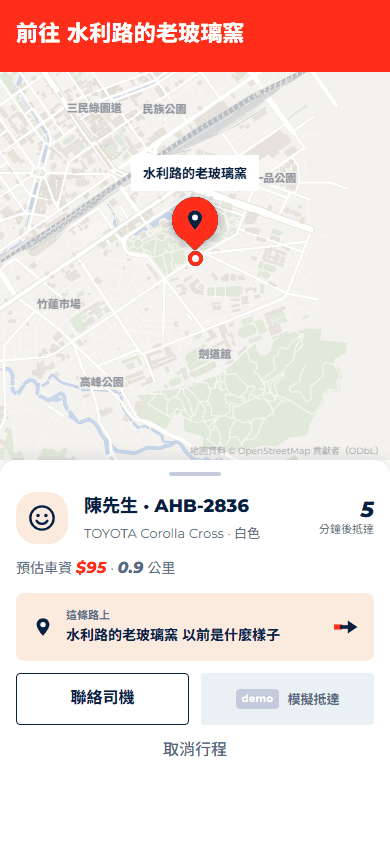
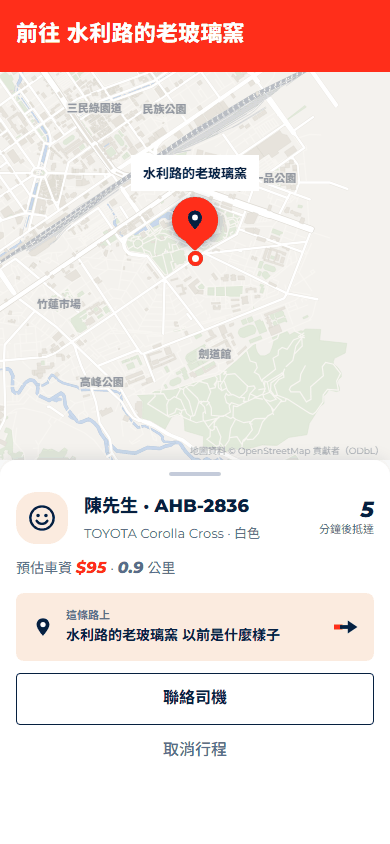
fix: 移除乘客介面的 demo 控制並重拍行程截圖

diff --git a/app/tests/specs/flows.spec.js b/app/tests/specs/flows.spec.js
@@ -25,7 +25,7 @@ T.spec('flows', function (t) {
   /* 叫車首頁「叫車前往」→ 確認叫車頁「確認叫車」 */
   const callRide = T.helpers.callRide;
 
-  /* 流程 A 的前半：探索 → 今天的地方 → 下車點 → 叫車 → 模擬抵達 → 評分 → 解鎖 → 收下。
+  /* 流程 A 的前半：探索 → 今天的地方 → 下車點 → 叫車 → 外部推進行程 → 評分 → 解鎖 → 收下。
      C 會先走一次；still 與非 still 都能跑（非 still 時解鎖點一下畫面跳到成品）。 */
   async function rideAndCollect(app, note) {
     const A = app.APP;
@@ -41,7 +41,8 @@ T.spec('flows', function (t) {
     await callRide(app);
     await app.at('/trip');
     t.eq(A.ride.trip.current().placeId, T0.id, '建立這個目的地的 yoxi 行程');
-    await app.click('main.view [data-act="arrive"]');
+    t.ok(!app.$('main.view [data-act="arrive"]'), '乘客 app 不提供抵達開發控制');
+    await app.click('#demo-panel [data-act="advance-trip"]');
     await app.at('/trip/done');
     await app.click('[data-act="rate"][data-star="5"]');
     await app.click('.banner--gold');
@@ -140,7 +141,7 @@ T.spec('flows', function (t) {
     t.ok(story && !story.hidden, '「這條路上」展開');
     t.ok(story && story.querySelectorAll('.story__text').length > 0 && app.text('[data-story]').length > 20, '「這條路上」有內容');
 
-    await app.click('main.view [data-act="arrive"]');
+    await app.click('#demo-panel [data-act="advance-trip"]');
     await app.at('/trip/done');
     t.eq(A.store.get('trip').phase, 'done', 'trip.phase=done');
     t.ok(app.$('[data-gold]').hidden, '評分前沒有金色橫幅');
@@ -237,7 +238,7 @@ T.spec('flows', function (t) {
     await app.go('/ride');
     await callRide(app);
     await app.at('/trip');
-    await app.click('main.view [data-act="arrive"]');
+    await app.click('#demo-panel [data-act="advance-trip"]');
     await app.at('/trip/done');
     await app.click('[data-act="rate"][data-star="4"]');
     await app.click('[data-act="go-home"]');
@@ -538,14 +539,17 @@ T.spec('flows', function (t) {
     await app.at('/explore');
     t.ok(true, '從別頁呼叫是 push，返回回到原頁');
 
-    /* 設定頁的模擬抵達（手機的 demo 工具）：有行程 → 行程完成 */
+    /* 乘客設定頁不含開發控制；手機外的工具推進既有行程 → 結算評分。 */
     await app.reset({ store: { trip: T.fixtures.trip({ placeId: 'lake', startedAt: now(), km: 6.4 }) } });
     A = app.APP;
     await app.go('/settings');
     await app.click('[data-act="more"]');
-    await app.click('main.view [data-act="arrive"]');
+    t.ok(!app.$('main.view [data-act="arrive"], main.view [data-act="advance-trip"], main.view [data-act="reset-demo"], main.view [data-act="push-am"], main.view [data-act="push-pm"]'), '設定頁展開後沒有開發控制');
+    t.ok(!/demo|模擬抵達|模擬到家/i.test(app.text('main.view')), '設定頁沒有 demo 或模擬說明');
+    t.ok(!app.$('#demo-panel [data-act="advance-trip"]').disabled, '有 active trip，外面的開發工具可推進');
+    await app.click('#demo-panel [data-act="advance-trip"]');
     await app.at('/trip/done');
-    t.eq(A.store.get('trip').phase, 'done', '設定頁模擬抵達 → phase=done');
+    t.eq(A.store.get('trip').phase, 'done', '外部推進既有行程 → phase=done');
     t.eq(app.errors.length, 0, '錯誤：' + app.errors.join('；'));
   });
 
@@ -597,6 +601,8 @@ T.spec('flows', function (t) {
       if (!v) { probs.push(path + '：沒有 main.view'); continue; }
       t.noDeadButtons(app, label + path);
       t.noBannedWords(app, { msg: label + path });
+      t.ok(!app.$('main.view [data-act="arrive"], main.view [data-act="advance-trip"]'), label + path + ' 乘客畫面沒有抵達開發控制');
+      t.ok(!/模擬抵達|模擬到家|demo 工具|叫車、抵達與推播都是模擬的/i.test(v.innerText), label + path + ' 乘客可見文案沒有 demo 說明');
       t.ok(!app.$('[data-act="go-walk"], [data-act="arrive-walk"]'), label + path + ' 沒有步行前往或抵達控制');
       const retiredTravel = /走路前往|步行|走路約|再走過去|走路抵達|不是拿來滑的/;
       t.ok(!retiredTravel.test(v.innerText), label + path + ' 可見文案沒有舊步行產品語意：' + (v.innerText.match(retiredTravel) || []).join(''));
@@ -697,7 +703,7 @@ T.spec('flows', function (t) {
       await app.at('/trip');
       await app.waitFor(function () { return !app.$('[data-phase="riding"]').hidden; }, 3000, '行程中');
       seen.trip = app.text('[data-phase="riding"] [data-fare]');
-      await app.click('main.view [data-act="arrive"]');
+      await app.click('#demo-panel [data-act="advance-trip"]');
       await app.at('/trip/done');
       seen.done = app.text('.ride-done__sum [data-fare]');
       Object.keys(seen).forEach(function (k) { t.eq(seen[k], want, id + ' ' + k + ' 車資'); });

diff --git a/app/js/views/system.js b/app/js/views/system.js
@@ -162,7 +162,7 @@ function push(opt) {
         '<span class="pushmock__b">' + esc(body) + '</span>' +
       '</span>' +
     '</a>' +
-    '<p class="sys-push__note">demo：一天最多兩則，早上一則、晚上一則</p>' +
+    '<p class="sys-push__note">一天最多兩則，早上一則、晚上一則</p>' +
     '<button class="pushmock__close sys-push__close" type="button" data-act="close-push">關閉</button>';
 
   el.querySelector('[data-act="open-push"]').onclick = function (e) {
@@ -474,21 +474,15 @@ APP.view('settings', {
 
         '<section class="sys-set__sec sys-set__sec--last">' +
           '<button class="sys-set__more" type="button" data-act="more" aria-expanded="false">' +
-            '<span>清除足跡、demo 工具與關於</span><span class="sys-set__chev" aria-hidden="true"></span></button>' +
+            '<span>清除足跡與關於</span><span class="sys-set__chev" aria-hidden="true"></span></button>' +
           '<div class="sys-set__morebox" data-more hidden>' +
             /* 可按數 ≤ 10：多了「探索模式的景點」開關，清除足跡收進展開區（它本來就不是常用的動作） */
             '<div class="sys-set__sec">' +
               '<button class="btn-ghost sys-set__wipe" type="button" data-act="wipe">清除我的足跡</button>' +
             '</div>' +
-            '<div class="sec"><h2 class="sec__t sec__t--sm">demo 工具</h2><span class="sec__m">提案現場用</span></div>' +
-            '<div class="sys-set__demo">' +
-              '<button class="btn-ghost" type="button" data-act="push-am">早上推播</button>' +
-              '<button class="btn-ghost" type="button" data-act="push-pm">晚上推播</button>' +
-              '<button class="btn-ghost" type="button" data-act="arrive">模擬抵達</button>' +
+            '<div class="sys-set__actions">' +
               '<button class="btn-ghost" type="button" data-act="welcome">再看一次介紹</button>' +
-              '<button class="btn-ghost sys-set__danger" type="button" data-act="reset-demo">重設 demo</button>' +
             '</div>' +
-            '<p class="sys-set__small">叫車、抵達與推播都是模擬的。</p>' +
 
             '<div class="sec sys-set__abouthd"><h2 class="sec__t sec__t--sm">關於</h2></div>' +
             '<div class="card card--pad sys-set__about">' +
@@ -537,18 +531,7 @@ APP.view('settings', {
       }
     };
 
-    root.querySelector('[data-act="push-am"]').onclick = function () { APP.ui.push({ when: 'am' }); };
-    root.querySelector('[data-act="push-pm"]').onclick = function () { APP.ui.push({ when: 'pm' }); };
     root.querySelector('[data-act="welcome"]').onclick = function () { APP.nav.go('/welcome'); };
-    root.querySelector('[data-act="reset-demo"]').onclick = function () { resetDemo(); };
-
-    const arrive = root.querySelector('[data-act="arrive"]');
-    const can = arriveTarget();
-    arrive.classList.toggle('is-off', !can);
-    arrive.onclick = function () {
-      const go = arriveTarget();
-      if (go) go(); else APP.ui.toast('先開始前往或叫車');
-    };
 
     /* 別處改了設定（例如 demo 面板的重設）時同步開關 */
     return APP.on('state:change', function () { syncSwitches(root); });
@@ -622,6 +605,7 @@ function fillPanel() {
     '<div class="demo-panel__t">demo 工具</div>' +
     '<button class="demo-panel__btn" type="button" data-act="push-am">早上推播</button>' +
     '<button class="demo-panel__btn" type="button" data-act="push-pm">晚上推播</button>' +
+    '<button class="demo-panel__btn" type="button" data-act="advance-trip" disabled>推進目前行程</button>' +
     '<div class="demo-panel__group" role="group" aria-labelledby="demo-arrive-t">' +
       '<label class="demo-panel__label" id="demo-arrive-t" for="demo-arrive-place">模擬抵達</label>' +
       '<select class="demo-panel__select" id="demo-arrive-place" data-demo-place></select>' +
@@ -642,6 +626,9 @@ function fillPanel() {
   sel.onchange = function () { panelPick = sel.value; };
   panel.querySelector('[data-act="push-am"]').onclick = function () { APP.ui.push({ when: 'am' }); };
   panel.querySelector('[data-act="push-pm"]').onclick = function () { APP.ui.push({ when: 'pm' }); };
+  panel.querySelector('[data-act="advance-trip"]').onclick = function () {
+    if (APP.ride.trip.active()) APP.ride.arrive();
+  };
   panel.querySelector('[data-act="reset-demo"]').onclick = function () { resetDemo(); };
   panel.querySelector('[data-act="arrive-ride"]').onclick = function () { demoArrive(sel.value, 'ride'); };
   const date = panel.querySelector('[data-demo-date]');
@@ -656,6 +643,7 @@ function fillPanel() {
 function updatePanel(cur) {
   const panel = fillPanel();
   if (!panel) return;
+  panel.querySelector('[data-act="advance-trip"]').disabled = !APP.ride.trip.active();
   const sel = panel.querySelector('[data-demo-place]');
   let list = demoPlaces();
   const here = contextPlace(cur);

diff --git a/app/tests/specs/ride.spec.js b/app/tests/specs/ride.spec.js
@@ -39,7 +39,13 @@ T.spec('ride', function (t) {
     await app.go('/trip');
     await app.tick(60);
     checkPage(app, '/trip riding');
-    t.ok(app.$('[data-act="arrive"]'), '有模擬抵達');
+    t.ok(!app.$('main.view [data-act="arrive"], main.view [data-act="advance-trip"]'), '乘客行程沒有抵達開發控制');
+    t.ok(!/demo|模擬抵達|模擬到家/i.test(app.text('main.view')), '乘客行程文案沒有 demo 或模擬抵達');
+    const contact = app.$('[data-phase="riding"] [data-act="call-driver"]');
+    t.ok(contact && typeof contact.onclick === 'function', '行程中仍可聯絡司機');
+    await app.click(contact);
+    t.includes(app.text('.toast'), '正在撥號給', '聯絡司機能觸發撥號回饋');
+    t.ok(!app.$('#demo-panel [data-act="advance-trip"]').disabled, '開發工具可推進進行中的行程');
     await app.reset({ store: { trip: neiwanTrip('done', { rated: true, stars: 5 }) } });
     await app.go('/trip/done');
     await app.tick(60);
@@ -1125,7 +1131,7 @@ T.spec('ride', function (t) {
     await callRide(app);
     await app.at('/trip');
     t.eq(A.store.get('trip').via, 'k1', 'trip.via＝dropoff.via');
-    await app.click('main.view [data-act="arrive"]');
+    await app.click('#demo-panel [data-act="advance-trip"]');
     await app.at('/trip/done');
     await app.click('[data-act="rate"][data-star="5"]');
     await app.click('.banner--gold');
@@ -1175,7 +1181,7 @@ T.spec('ride', function (t) {
     await app.at('/trip');
     t.eq('round' in A.store.get('trip'), false, '單程的行程沒有 round');
     t.ok(!app.$('[data-round-note]') && !app.$('[data-round-fare]'), '去程沒有來回的車資與說明');
-    await app.click('main.view [data-act="arrive"]');
+    await app.click('#demo-panel [data-act="advance-trip"]');
     await app.at('/trip/done');
     t.eq(A.store.get('trip').phase, 'done', '單程抵達就是 done');
     t.ok(!app.$('[data-legs]'), '結算頁沒有三段');
@@ -1194,7 +1200,7 @@ T.spec('ride', function (t) {
     t.eq(money(app, '[data-phase="riding"] [data-min]'), F.rideMin(km), '去程分鐘＝rideMin');
     t.eq(money(app, '[data-round-note] [data-wait-max]'), R.WAIT_MAX_MIN, '去程就先說司機會等多久');
 
-    await app.click('main.view [data-act="arrive"]');
+    await app.click('#demo-panel [data-act="advance-trip"]');
     await app.waitFor(function () { return app.$('[data-phase="waiting"]'); }, 3000, '候車那一段');
     t.eq(app.route().path, '/trip', '去程到了還在 /trip');
     t.eq(A.store.get('trip').phase, 'waiting', 'phase=waiting');
@@ -1217,10 +1223,16 @@ T.spec('ride', function (t) {
     t.eq(A.store.get('trip').phase, 'returning', 'phase=returning');
     t.includes(app.doc.title, '回家的路上', '標題');
     checkPage(app, '/trip 回程');
+    t.ok(!app.$('main.view [data-act="arrive"], main.view [data-act="advance-trip"]'), '回程沒有抵達或到家開發控制');
+    t.ok(!/demo|模擬抵達|模擬到家/i.test(app.text('main.view')), '回程文案沒有 demo 或模擬到家');
+    const returningContact = app.$('[data-phase="returning"] [data-act="call-driver"]');
+    t.ok(returningContact && typeof returningContact.onclick === 'function', '回程仍可聯絡司機');
+    await app.click(returningContact);
+    t.includes(app.text('.toast'), '正在撥號給', '回程聯絡司機可用');
     t.eq(money(app, '[data-phase="returning"] [data-min]'), F.rideMin(km), '回程分鐘＝rideMin（一樣遠）');
     t.ok(app.$('[data-back-pending]'), '還沒收：說到家之後也收得到');
 
-    await app.click('main.view [data-act="arrive"]');
+    await app.click('#demo-panel [data-act="advance-trip"]');
     await app.at('/trip/done');
     t.eq(A.store.get('trip').phase, 'done', '到家');
     checkPage(app, '/trip/done 來回');
@@ -1282,7 +1294,7 @@ T.spec('ride', function (t) {
     await app.click('[data-act="ride-back"]');
     await app.waitFor(function () { return app.$('[data-phase="returning"]'); }, 3000, '回程');
     t.ok(!app.$('[data-back-pending]'), '收過了：回程不再提醒');
-    await app.click('main.view [data-act="arrive"]');
+    await app.click('#demo-panel [data-act="advance-trip"]');
     await app.at('/trip/done');
     await app.click('[data-act="rate"][data-star="4"]');
     const g = app.$('[data-gold] .banner--gold');

diff --git a/app/tests/specs/system.spec.js b/app/tests/specs/system.spec.js
@@ -69,9 +69,11 @@ T.spec('system', function (t) {
     t.noBannedWords(app);
     const n = t.countTappables(app);
     t.ok(n <= 10, '可按數 ' + n);
-    /* 展開 demo 工具與關於：內容都在、仍然沒有死按鈕與禁用詞 */
+    /* 展開清除足跡與關於：乘客設定頁沒有開發工具，仍然沒有死按鈕與禁用詞。 */
     await app.click('[data-act="more"]');
     t.ok(!app.$('[data-more]').hidden, '展開');
+    t.ok(!app.$('main.view [data-act="arrive"], main.view [data-act="advance-trip"], main.view [data-act="push-am"], main.view [data-act="push-pm"], main.view [data-act="reset-demo"]'), '展開後仍沒有抵達、推播、重設等開發控制');
+    t.ok(!/demo|模擬抵達|模擬到家|叫車、抵達與推播都是模擬的/i.test(app.text('main.view')), '設定文案沒有 demo 與模擬說明');
     t.eq(app.text('[data-version]'), app.APP.system.VERSION, '版本字串');
     t.ok(app.text('main.view').indexOf('OpenStreetMap') >= 0, '地圖署名');
     const P = app.win.PHOTOS_DATA || {};
@@ -198,7 +200,7 @@ T.spec('system', function (t) {
     t.eq(app.STATE.count(), 9, '先收一張');
     await app.go('/settings');
     await app.click('[data-act="more"]');
-    await app.click('main.view [data-act="reset-demo"]');
+    await app.click('#demo-panel [data-act="reset-demo"]');
     await app.click('[data-act="confirm-yes"]');
     await app.at('/ride');
     t.eq(app.STATE.count(), 8, 'STATE 回到 fresh 8 張');
@@ -212,7 +214,7 @@ T.spec('system', function (t) {
     app.STATE.collect('glass-kiln', {});
     await app.go('/settings');
     await app.click('[data-act="more"]');
-    await app.click('main.view [data-act="reset-demo"]');
+    await app.click('#demo-panel [data-act="reset-demo"]');
     await app.click('[data-act="confirm-no"]');
     t.eq(app.STATE.count(), 9, '沒有重設');
     t.eq(app.route().path, '/settings', '還在設定');
@@ -233,14 +235,19 @@ T.spec('system', function (t) {
     t.eq(app.STATE.all.settings.pushAm, true, '設定不動');
   });
 
-  t.test('設定頁的模擬抵達：沒有前往或叫車時 toast、不導走', async function (app) {
+  t.test('設定頁沒有抵達開發控制；無行程時手機外的推進工具停用且不導走', async function (app) {
     await app.reset();
     await app.go('/settings');
     await app.click('[data-act="more"]');
-    await app.click('main.view [data-act="arrive"]');
+    t.ok(!app.$('main.view [data-act="arrive"], main.view [data-act="advance-trip"]'), '設定頁展開後也沒有抵達控制');
+    t.ok(!/demo|模擬抵達|模擬到家/i.test(app.text('main.view')), '設定頁文案沒有 demo 或模擬抵達');
+    const advance = app.$('#demo-panel [data-act="advance-trip"]');
+    t.ok(advance && advance.disabled, '無 active trip 的開發工具停用');
+    const before = JSON.stringify(app.APP.store.all);
+    await app.click(advance);
     await app.tick(30);
     t.eq(app.route().path, '/settings', '沒有導走');
-    t.includes(app.text('.toast') || '', '先開始前往或叫車', 'toast');
+    t.eq(JSON.stringify(app.APP.store.all), before, '停用控制不更動任何 store 狀態');
   });
 
   t.test('再看一次介紹 → /welcome', async function (app) {
@@ -500,7 +507,7 @@ T.spec('system', function (t) {
     app.APP.ui.confirm = function (o) { seen = o; return orig.apply(this, arguments); };
     await app.go('/settings');
     await app.click('[data-act="more"]');
-    await app.click('main.view [data-act="reset-demo"]');
+    await app.click('#demo-panel [data-act="reset-demo"]');
     t.ok(seen && seen.danger === true, 'danger:true');
     await app.click('[data-act="confirm-no"]');
     app.APP.ui.confirm = orig;
@@ -614,7 +621,7 @@ T.spec('system', function (t) {
     /* 重設 demo 的文案 */
     await app.go('/settings');
     await app.click('[data-act="more"]');
-    await app.click('main.view [data-act="reset-demo"]');
+    await app.click('#demo-panel [data-act="reset-demo"]');
     t.includes(app.text('.app-confirm'), '回到 demo 初始狀態', '重設 demo 文案');
     await app.click('[data-act="confirm-yes"]');
     await app.at('/ride');

diff --git a/app/js/views/ride.js b/app/js/views/ride.js
@@ -187,7 +187,7 @@ function emptyCard(eyebrow, title, text) {
    - phase(t, now)：純函式。存的是 matching 但已經過了 MATCH_MS 就算 riding（now 可注入）；其他段照存的。
    - 進行中（active）：配對中、行程中、候車、回程。進行中不能從旁邊改下車點、也不從其他入口另開前往流程。
    - 抵達了（reached）：單程 done；來回 waiting、returning、done——回家不能讓還沒收的那一張搭車卡消失（產品決定）。
-   - arrive() 每一段怎麼走＝「這一趟下一個抵達的地方」（/trip 的 demo 鈕、system 的模擬抵達都叫它）：
+   - arrive() 每一段怎麼走＝「這一趟下一個抵達的地方」（手機外展示工具或行程事件呼叫）：
        單程：任何一段 → done。
        來回：配對中／去程 → waiting（到了這個地方，司機候車）；候車 → done（demo 直接跳到到家）；回程 → done；done 不動。
    - back()：候車 → 回程（司機過來載你回家）。不是候車中的來回就不動、回 null。
@@ -1720,9 +1720,8 @@ function returningHTML(t, p, km, min, pend) {
     driverHTML(esc(DRIVER.name) + ' · ' + esc(DRIVER.plate), esc(DRIVER.car), etaHTML(min, '分鐘後到家')) +
     tripFareHTML(t, km) +
     (pend ? '<p class="ride-wait__p" data-back-pending>這一次的明信片還沒收，到家之後也收得到。</p>' : '') +
-    '<div class="ride-trip__acts">' +
+    '<div class="ride-trip__acts ride-trip__acts--one">' +
       '<button class="btn-ghost" type="button" data-act="call-driver">聯絡司機</button>' +
-      '<button class="demo-btn" type="button" data-act="arrive">模擬到家</button>' +
     '</div>' +
   '</div>';
 }
@@ -1807,9 +1806,8 @@ APP.view('trip', {
               paras.map(function (x) { return '<p class="story__text">' + esc(x) + '</p>'; }).join('') +
             '</div>' +
           '</div>' +
-          '<div class="ride-trip__acts">' +
+          '<div class="ride-trip__acts ride-trip__acts--one">' +
             '<button class="btn-ghost" type="button" data-act="call-driver">聯絡司機</button>' +
-            '<button class="demo-btn" type="button" data-act="arrive">模擬抵達</button>' +
           '</div>' +
         '</div>' +
 
@@ -1877,8 +1875,6 @@ APP.view('trip', {
     root.querySelectorAll('[data-act="call-driver"]').forEach(function (b) {
       b.onclick = function () { APP.ui.toast('正在撥號給 ' + DRIVER.name + '…'); };
     });
-    const arr = root.querySelector('[data-act="arrive"]');
-    if (arr) arr.onclick = function () { arrive(); };
     /* 回程：候車 → 回程，這一頁換成回程那一段 */
     const bk = root.querySelector('[data-act="ride-back"]');
     if (bk) {

diff --git a/app/css/views/system.css b/app/css/views/system.css
@@ -170,9 +170,8 @@
   color: var(--app-muted);
 }
 
-/* 清除足跡／重設 demo 是可按的按鈕 → 海軍藍（btn-ghost 本色）；危險由確認框把關（預設焦點在「先不要」） */
-.sys-set__wipe,
-.sys-set__danger { border-color: var(--yoxi-navy); color: var(--yoxi-navy); }
+/* 清除足跡由確認框把關（預設焦點在「先不要」）。 */
+.sys-set__wipe { border-color: var(--yoxi-navy); color: var(--yoxi-navy); }
 
 /* 開關本體 50×30（components.css 的 .sw-toggle）：用透明的 ::before 把命中區撐到 58×48，外觀不變（::after 是圓鈕）。
    跟 app.css 的通用命中區同一套寫法（置中＋translate），這裡再撐大一點、而且不靠 app.css 也成立 */
@@ -213,14 +212,12 @@
 
 .sys-set__morebox { padding-top: var(--sp-4); }
 .sys-set__morebox[hidden] { display: none; }
-.sys-set__demo {
+.sys-set__actions {
   display: grid;
-  grid-template-columns: 1fr 1fr;
+  grid-template-columns: 1fr;
   gap: var(--sp-2);
 }
-.sys-set__demo .btn-ghost { min-height: 44px; font-size: var(--fs-sm); }
-.sys-set__demo .btn-ghost.is-off { border-color: var(--yoxi-slate-lite); color: var(--app-muted); }
-.sys-set__demo .sys-set__danger { grid-column: 1 / -1; }
+.sys-set__actions .btn-ghost { min-height: 44px; font-size: var(--fs-sm); }
 
 .sys-set__abouthd { margin-top: var(--sp-5); }
 .sys-set__about { font-size: var(--fs-sm); line-height: 1.7; }

diff --git a/app/js/version.js b/app/js/version.js
@@ -3,4 +3,4 @@
    sw.js 用 importScripts 載（快取的名字跟著它換代）。
    ★ 新增檔案、或 PRECACHE 清單變了：這裡的數字加一。瀏覽器更新 service worker 時也會比對 importScripts 進來的檔，
      所以只改這一支也會觸發更新。檢查：python app/tools/check-sw.py */
-self.APP_VERSION = 'chengshi-app-v30';
+self.APP_VERSION = 'chengshi-app-v31';

diff --git a/app/ARCHITECTURE.md b/app/ARCHITECTURE.md
@@ -14,6 +14,7 @@
 - 歷史季節款與到訪資料仍可讀；介面以「到訪紀錄」描述未記為搭車的舊卡，不再提供非搭車的前往或抵達操作。抵達後在景點附近的探索不屬於交通選項。
 - 3 km 只保留為搭車解鎖回饋門檻，命名為 `APP.fmt.RIDE_BONUS_MIN_M`；移除 `canWalk` 與 `walkMin`。
 - 乘車中畫面使用 `/trip`，顯示目的地、司機、車輛、預估車程與車資；不出現對使用者滑手機的評論或介紹文案本身的自述。
+- 乘客介面不提供 `demo`、模擬抵達或模擬到家按鈕；行程頁只留乘客操作。設定頁只留資料偏好、清除足跡、介紹與關於。測試與展示所需的行程推進、推播及重設集中在手機外的桌機工具面板；`advance-trip` 呼叫既有 `APP.ride.arrive()` 推進目前行程，保留結算與評分步驟。
 
 `prototype/` 是 102 張各自獨立的 HTML 設計原型；`app/` 是把其中**一組決定**做成一個真的能用的
 單頁 web app（hash 路由、狀態持久、可安裝 PWA），手機直接開、桌機看得到手機外框。
@@ -43,7 +44,7 @@ app 比原型多出來的東西（原型是一疊畫面，app 要能走完一圈
 - 設定下車地點頁（`#/dropoff`）：清單＋搜尋，資料全部來自 `MOCK`。
 - 第一次開的 onboarding（三張，可略過）。
 - 推播是 app 內的浮層（早／晚各一則，一天最多兩則），由 demo 工具觸發。
-- demo 工具：桌機在手機外框旁邊一條面板；手機在「設定 → demo 工具」。桌機面板：早上推播、晚上推播、模擬抵達（地點下拉選單＋「搭 yoxi 抵達」，任何一頁都能按；地點預設跟著這一頁）、重設。設定頁的模擬抵達只在有行程時出現。
+- 展示工具只在桌機的手機外框旁。面板可觸發推播、用「推進目前行程」走下一段抵達／結算，或從地點下拉選單「搭 yoxi 抵達」直接展示收卡；也可重設。手機的乘客畫面與設定頁沒有展示控制。
 
 ### 雙主頁的叫車面板
 
@@ -450,7 +451,7 @@ node 端：`tests/unit/helpers.mjs` 的 `loadApp({ views: ['ride', 'album', …]
 | `/lookback` | 回憶卡：左右滑動（或按卡片兩側小箭頭）換到訪地點模板，可加自己的照片、挑光線，一鍵製作保存；整頁不捲 | null | `lookback.html` | album-memory |
 | `/week` | 週回顧：七日里程圖、期間內收卡、分享（不顯示步數或比較排名） | album | `week.html` | album |
 | `/elder` | 長輩圖（`?card=<id>` 把那張排第一並預選） | album | `elder.html` | album |
-| `/settings` | 遊喜樂設定（隱私開關、重設、demo 工具） | null | `settings.html` | system |
+| `/settings` | 遊喜樂設定（隱私開關、清除足跡、介紹與關於） | null | `settings.html` | system |
 | `/*` | 404：一句話＋回叫車 | null | 新 | core |
 
 **返回規則**（2026-09-25）：
